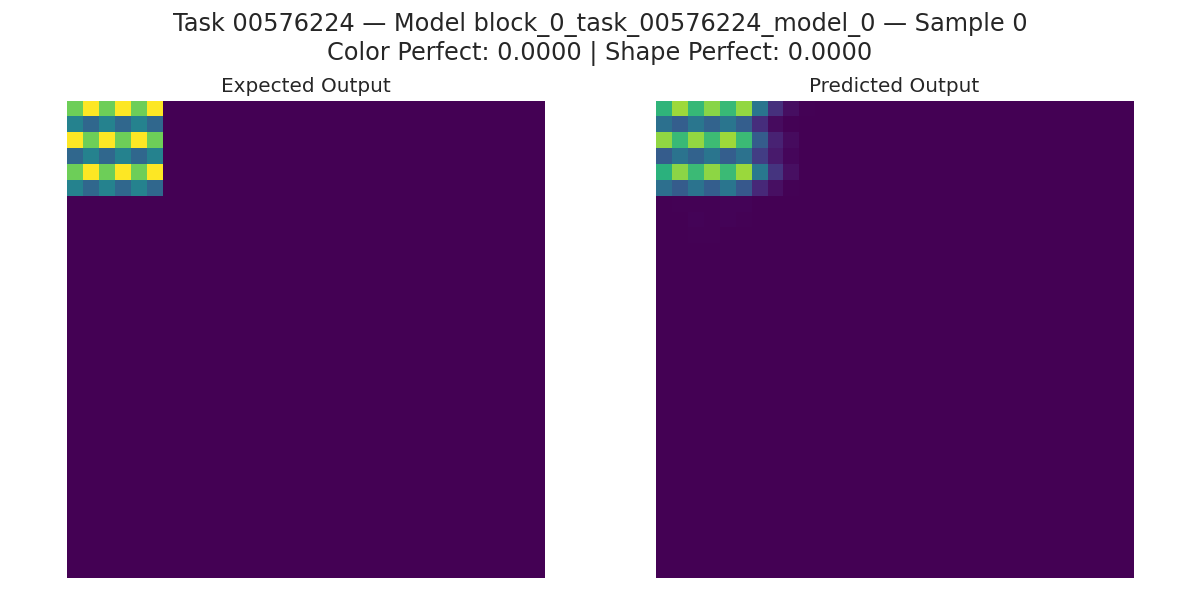
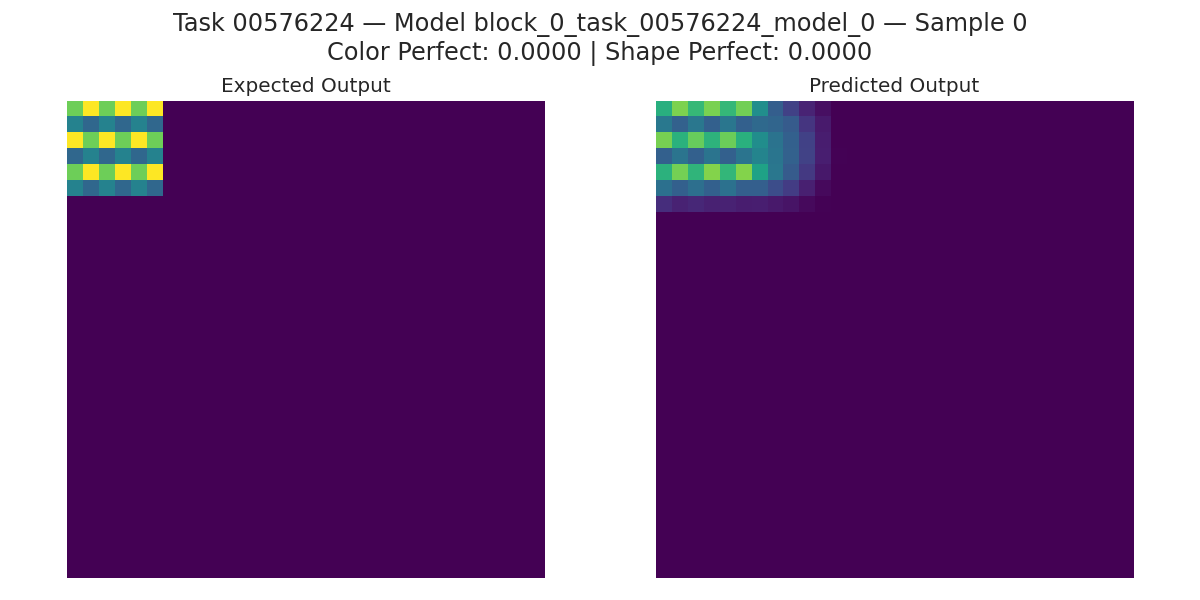
fixed mse

Changed region(s): [[0.5242, 0.15, 0.7092, 0.36]]

diff --git a/SimuV1.py b/SimuV1.py
@@ -1,71 +1,67 @@
 import tensorflow as tf
+from tensorflow.keras import layers, Model
 
-class SimuV1(tf.keras.Model):
-    def __init__(self, hidden_dim=32):
-        super().__init__()
+class SimuV1(Model):
+    def __init__(self, hidden_dim=16, output_channels=1):
+        super(SimuV1, self).__init__()
 
-        self.conv1 = tf.keras.layers.Conv3D(hidden_dim, kernel_size=3, padding="same", activation="relu")
-        self.bn1 = tf.keras.layers.BatchNormalization()
-        self.drop1 = tf.keras.layers.Dropout(0.1)
-        self.pool1 = tf.keras.layers.MaxPool3D(pool_size=(2, 2, 2), padding="same")
+        self.conv1 = layers.Conv3D(hidden_dim, (3, 3, 3), padding='same', activation='relu')
+        self.bn1 = layers.BatchNormalization()
+        self.drop1 = layers.Dropout(0.2)
+        self.pool1 = layers.MaxPooling3D(pool_size=(1, 2, 2), padding='same')
 
-        self.conv2 = tf.keras.layers.Conv3D(hidden_dim * 2, kernel_size=3, padding="same", activation="relu")
-        self.bn2 = tf.keras.layers.BatchNormalization()
-        self.drop2 = tf.keras.layers.Dropout(0.1)
-        self.pool2 = tf.keras.layers.MaxPool3D(pool_size=(2, 2, 1), padding="same")
+        self.conv2 = layers.Conv3D(hidden_dim * 2, (3, 3, 3), padding='same', activation='relu')
+        self.bn2 = layers.BatchNormalization()
+        self.drop2 = layers.Dropout(0.3)
+        self.pool2 = layers.MaxPooling3D(pool_size=(1, 2, 2), padding='same')
 
-        self.conv3 = tf.keras.layers.Conv3D(hidden_dim * 4, kernel_size=3, padding="same", activation="relu")
-        self.bn3 = tf.keras.layers.BatchNormalization()
-        self.drop3 = tf.keras.layers.Dropout(0.1)
+        self.conv3 = layers.Conv3D(hidden_dim * 4, (3, 3, 3), padding='same', activation='relu')
+        self.bn3 = layers.BatchNormalization()
+        self.drop3 = layers.Dropout(0.4)
 
-        self.up1 = tf.keras.layers.UpSampling3D(size=(2, 2, 1))
-        self.conv4 = tf.keras.layers.Conv3D(hidden_dim * 2, kernel_size=3, padding="same", activation="relu")
-        self.bn4 = tf.keras.layers.BatchNormalization()
-        self.drop4 = tf.keras.layers.Dropout(0.1)
+        self.up1 = layers.UpSampling3D(size=(1, 2, 2))
+        self.conv4 = layers.Conv3D(hidden_dim * 2, (3, 3, 3), padding='same', activation='relu')
+        self.bn4 = layers.BatchNormalization()
+        self.drop4 = layers.Dropout(0.3)
 
-        self.up2 = tf.keras.layers.UpSampling3D(size=(2, 2, 1))
-        self.conv5 = tf.keras.layers.Conv3D(hidden_dim, kernel_size=3, padding="same", activation="relu")
-        self.bn5 = tf.keras.layers.BatchNormalization()
-        self.drop5 = tf.keras.layers.Dropout(0.1)
+        self.up2 = layers.UpSampling3D(size=(1, 2, 2))
+        self.conv5 = layers.Conv3D(hidden_dim, (3, 3, 3), padding='same', activation='relu')
+        self.bn5 = layers.BatchNormalization()
+        self.drop5 = layers.Dropout(0.2)
 
-        self.crop = tf.keras.layers.Cropping3D(((1, 1), (1, 1), (0, 0)))  # Para garantir 30x30 após upsampling
-
+        self.crop = layers.Cropping3D(cropping=((0, 0), (2, 2), (2, 2)))
         self.conv_reduce_depth = tf.keras.layers.Conv3D(hidden_dim, kernel_size=(1, 1, 1), padding="same", activation="relu")
+        self.output_layer = layers.Conv3D(output_channels, (1, 1, 1), activation='linear')
 
-        self.output_layer = tf.keras.layers.Conv3D(1, kernel_size=1, activation=None, dtype='float32')
-
-    def call(self, x):
+    def call(self, x, training=False):
         x = self.conv1(x)
-        x = self.bn1(x)
-        x = self.drop1(x)
+        x = self.bn1(x, training=training)
+        x = self.drop1(x, training=training)
         x = self.pool1(x)
 
         x = self.conv2(x)
-        x = self.bn2(x)
-        x = self.drop2(x)
+        x = self.bn2(x, training=training)
+        x = self.drop2(x, training=training)
         x = self.pool2(x)
 
         x = self.conv3(x)
-        x = self.bn3(x)
-        x = self.drop3(x)
+        x = self.bn3(x, training=training)
+        x = self.drop3(x, training=training)
 
         x = self.up1(x)
         x = self.conv4(x)
-        x = self.bn4(x)
-        x = self.drop4(x)
+        x = self.bn4(x, training=training)
+        x = self.drop4(x, training=training)
 
         x = self.up2(x)
         x = self.conv5(x)
-        x = self.bn5(x)
-        x = self.drop5(x)
+        x = self.bn5(x, training=training)
+        x = self.drop5(x, training=training)
 
-        x = self.crop(x)  # Corrige para shape final 30x30
-
+        # x = self.crop(x)
         x = self.conv_reduce_depth(x)
-        x = self.output_layer(x)  # Saída: (1, 30, 30, 1, 1)
-
-        # Converte valores contínuos para inteiros próximos
-        x = tf.cast(x, tf.float32)  # Garante dtype compatível
-        x = tf.round(x)             # Arredonda para valores inteiros
-        x = tf.clip_by_value(x, 0, 9)    # Garante que não saia do intervalo
+        x = self.output_layer(x)
+        # Ajuste de shape para (30, 30)
+        x = x[:, :30, :30, :1, :1]
+        # tf.debugging.check_numerics(x, "NaN ou Inf detectado após output_layer")
         return x

diff --git a/model_compile.py b/model_compile.py
@@ -1,37 +1,22 @@
-import os
 import tensorflow as tf
-from runtime_utils import log
 from tensorflow.keras.optimizers import Adam
-from tensorflow.keras.mixed_precision import LossScaleOptimizer
-from tensorflow.keras import mixed_precision
 
+# Remover logs do TensorFlow
+import os
+os.environ['TF_CPP_MIN_LOG_LEVEL'] = '3'
+import warnings
+warnings.filterwarnings("ignore")
 
-
-def compile_model(model, lr=1e-3):
-    base_optimizer = Adam(learning_rate=lr)
-    optimizer = mixed_precision.LossScaleOptimizer(base_optimizer)
-
-    model.compile(
-        optimizer=optimizer,
-        loss = masked_mse_loss(
-            pad_value=-1.0,
-            blur_penalty_weight=0.15,
-            color_penalty_weight=0.25,
-            valores_validos=tf.constant([0., 1., 2., 3., 4., 5., 6., 7., 8., 9.])
-        ),
-
-        metrics=[tf.keras.metrics.MeanSquaredError()]
-    )
-    return model
-
-
-def masked_mse_loss(pad_value=-1.0, blur_penalty_weight=0.1, color_penalty_weight=0.1, valores_validos=None):
+def masked_loss(pad_value=-1.0, blur_penalty_weight=0.1, color_penalty_weight=0.1, valores_validos=None):
     if valores_validos is None:
         valores_validos = tf.constant([0., 1., 2., 3., 4., 5., 6., 7., 8., 9.], dtype=tf.float32)
 
     def loss_fn(y_true, y_pred):
         y_true = tf.cast(y_true, tf.float32)
         y_pred = tf.cast(y_pred, tf.float32)
+
+        # tf.debugging.check_numerics(y_pred, "y_pred tem NaN ou Inf")
+        # tf.debugging.check_numerics(y_true, "y_true tem NaN ou Inf")
 
         while y_true.shape.rank < 5:
             y_true = tf.expand_dims(y_true, axis=-1)
@@ -43,42 +28,42 @@ def masked_mse_loss(pad_value=-1.0, blur_penalty_weight=0.1, color_penalty_weigh
         y_true = tf.broadcast_to(y_true, tf.shape(y_pred))
         mask = tf.broadcast_to(mask, tf.shape(y_pred))
 
-        # === MSE mascarado ===
         mse_loss = tf.square(y_true - y_pred) * mask
         mse = tf.reduce_sum(mse_loss) / tf.reduce_sum(mask)
 
-        # === Penalização de borrão vetorizada ===
-        kernel_2d = tf.constant([
-            [[0.], [1.], [0.]],
-            [[1.], [-4.], [1.]],
-            [[0.], [1.], [0.]]
-        ], dtype=tf.float32)
+        kernel_2d = tf.constant([[[0.], [1.], [0.]], [[1.], [-4.], [1.]], [[0.], [1.], [0.]]], dtype=tf.float32)
         kernel_2d = tf.reshape(kernel_2d, [3, 3, 1, 1])
+        shape = tf.shape(y_pred)
+        b, h, w = shape[0], shape[1], shape[2]
+        y_flat = tf.reshape(y_pred, [-1, h, w, 1])
+        conv = tf.nn.conv2d(y_flat, kernel_2d, strides=[1, 1, 1, 1], padding="SAME")
+        blur_penalty = tf.reduce_mean(tf.square(conv))
 
-        y_perm = tf.transpose(y_pred, [3, 0, 1, 2, 4])
+        if y_pred.shape.rank == 5:
+            y_color = tf.reshape(y_pred, [tf.shape(y_pred)[0], tf.shape(y_pred)[1], tf.shape(y_pred)[2]])
+        else:
+            y_color = y_pred
 
-        def penaliza_blur(slice_4d):
-            conv = tf.nn.conv2d(slice_4d, kernel_2d, strides=[1, 1, 1, 1], padding="SAME")
-            return tf.reduce_mean(tf.square(conv))
-
-        blur_penalties = tf.map_fn(penaliza_blur, y_perm, fn_output_signature=tf.float32)
-        blur_penalty = tf.reduce_mean(blur_penalties)
-
-        # === Penalização por cor inválida — versão vetorizada ===
-        y_flat = tf.reshape(y_pred, [-1, 1])
-        distances = tf.abs(y_flat - valores_validos)
-        min_dists = tf.reduce_min(distances, axis=1)
+        valores = tf.reshape(valores_validos, [1, 1, 1, -1])
+        y_color_exp = tf.expand_dims(y_color, axis=-1)
+        distances = tf.abs(y_color_exp - valores)
+        min_dists = tf.reduce_min(distances, axis=-1)
         color_penalty = tf.reduce_mean(min_dists)
 
-        # === Loss final ===
         total_loss = mse + blur_penalty_weight * blur_penalty + color_penalty_weight * color_penalty
         return total_loss
 
     return loss_fn
 
-
-
-
-
-
-
+def compile_model(model, lr=0.001):
+    optimizer = Adam(learning_rate=lr, clipnorm=1.0)
+    model.compile(
+                optimizer=optimizer, 
+                loss=masked_loss(
+                    blur_penalty_weight=0.13,
+                    pad_value=-1,
+                    color_penalty_weight=0.13
+                ), 
+                metrics=[tf.keras.metrics.MeanSquaredError()]
+    )
+    return model

diff --git a/train_all.py b/train_all.py
@@ -121,18 +121,22 @@ def training_process(
 
     for cycle in range(cycles):
         log(f"Cycle {cycle} — Modelo {n_model}")
-        model.fit(
-            x=X_train,
-            y=Y_train,
-            validation_data=(X_val_masked, Y_val_masked),
-            batch_size=batch_size,
-            epochs=epochs,
-            callbacks=[
-                ReduceLROnPlateau(monitor="val_loss", factor=factor, patience=2, min_lr=rl_lr),
-                # EarlyStopping(monitor="val_loss", patience=patience, restore_best_weights=True)
-            ],
-            verbose=1,
-        )
+        try:
+            model.fit(
+                x=X_train,
+                y=Y_train,
+                validation_data=(X_val_masked, Y_val_masked),
+                batch_size=batch_size,
+                epochs=epochs,
+                callbacks=[
+                    ReduceLROnPlateau(monitor="val_loss", factor=factor, patience=2, min_lr=rl_lr),
+                    # EarlyStopping(monitor="val_loss", patience=patience, restore_best_weights=True)
+                ],
+                verbose=0,
+            )
+        except Exception as e:
+            log(f"[ERROR DETECTADO] {e}")
+            traceback.print_exc()
 
         try:
             preds = model.predict(X_val)

diff --git a/main.py b/main.py
@@ -8,15 +8,21 @@ from GrampyX import rodar_deliberacao_com_condicoes, GrampyX
 from models_loader import load_model
 from runtime_utils import log
 
-mixed_precision.set_global_policy("mixed_float16")
+# tf.config.run_functions_eagerly(True)
+# mixed_precision.set_global_policy("mixed_float16")
+# tf.debugging.set_log_device_placement(True)
+# tf.debugging.enable_check_numerics()
 
 if __name__ == "__main__":
+    import os
+    import sys
     tf.random.set_seed(42)
     np.random.seed(42)
     random.seed(42)
     os.environ["TF_DETERMINISTIC_OPS"] = "1"
     os.environ['TF_CPP_MIN_LOG_LEVEL'] = '3'
-
+    # sys.stdout = open(os.devnull, 'w')
+    # sys.stderr = open(os.devnull, 'w')
     idx = 0
     grampyx_instance = GrampyX()
 

diff --git a/metrics_utils.py b/metrics_utils.py
@@ -333,7 +333,13 @@ def plot_prediction_debug(
 
     # Extrai o canal único para visualização
     expected_2d = expected_output[:, :, 0]
-    predicted_2d = predicted_output[:, :, 0]
+    if predicted_output.ndim == 3:
+        predicted_2d = predicted_output[:, :, 0]
+    elif predicted_output.ndim == 2:
+        predicted_2d = predicted_output
+    else:
+        raise ValueError(f"[ERRO] predicted_output com shape inesperado: {predicted_output.shape}")
+
 
     if expected_2d.shape != predicted_2d.shape:
         log(f"[ERROR] Shape incompatível: predicted={predicted_2d.shape}, expected={expected_2d.shape}")

diff --git a/models_loader.py b/models_loader.py
@@ -5,13 +5,13 @@ from runtime_utils import log
 
 # Configurações de cada modelo: classe e hidden_dim
 MODEL_CONFIGS = {
-    0: (SimuV1, 64),   # jurada
-    1: (SimuV1, 128),   # jurada
+    0: (SimuV1, 32),   # jurada
+    1: (SimuV1, 48),   # jurada
     2: (SimuV1, 64),   # jurada
-    3: (SimuV1, 128),   # advogada
-    4: (SimuV1, 64),   # juiza
-    5: (SimuV1, 256),   # suprema
-    6: (SimuV1, 128)    # promotor
+    3: (SimuV1, 32),   # advogada
+    4: (SimuV1, 32),   # juiza
+    5: (SimuV1, 64),   # suprema
+    6: (SimuV1, 32)    # promotor
 }
 
 _model_cache = {}
